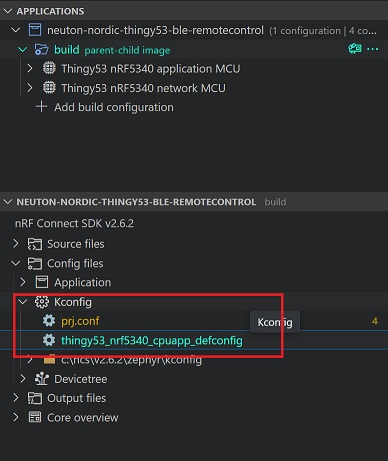
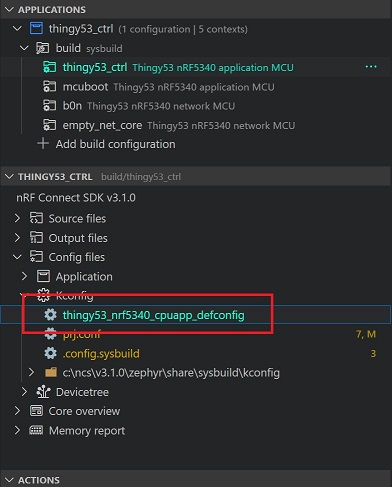
update prj.conf and readme file for sdk 3.1.0

Changed region(s): [[0.0, 0.3341, 1.0, 0.9414], [0.0, 0.0, 0.9897, 0.3037], [0.0, 0.9718, 0.1546, 1.0]]

diff --git a/src/ble/gatt/ble_gatt.c b/src/ble/gatt/ble_gatt.c
@@ -179,7 +179,7 @@ static void bt_ready(int err)
         settings_load();
     }
 
-    err = bt_le_adv_start(BT_LE_ADV_CONN, ad, ARRAY_SIZE(ad), sd, ARRAY_SIZE(sd));
+    err = bt_le_adv_start(BT_LE_ADV_CONN_FAST_1, ad, ARRAY_SIZE(ad), sd, ARRAY_SIZE(sd));
     if (err)
     {
         printk("Advertising failed to start (err %d)\n", err);

diff --git a/README.md b/README.md
@@ -30,9 +30,9 @@ To set this project up, you will need to install the following software:
 
 ## Setup Firmware Project <div id='setup-fw-proj'/>
 
-1. Clone this repository: https://github.com/Neuton-tinyML/neuton-nordic-thingy53-ble-remotecontrol
+1. Clone this repository: https://github.com/Neuton-tinyML/neuton-nordic-thingy53-ble-remotecontrol and checkout to the `feature/custom-ble-gatt` branch. Or run git command `git clone --single-branch --branch feature/custom-ble-gatt https://github.com/Neuton-tinyML/neuton-nordic-thingy53-ble-remotecontrol`
 2. In the VS code, `Open folder` where you did clone the repository.
-3. `Manage toolchain` install toolchain version **v3.0.0**. `Manage SDK` install version **v2.6.2** in nRF Connect tab.
+3. `Manage toolchain` install toolchain version **v3.1.0**. `Manage SDK` install version **v3.1.0** in nRF Connect tab.
 
 ![sw-install-step3-img](resources/sw-install-step-3.jpg)
 
@@ -51,6 +51,7 @@ To set this project up, you will need to install the following software:
 **IMPORTANT** If your `thingy53_nrf5340_cpuapp_defconfig` file does not has **`CONFIG_FPU=y`** you should add this because Neuton library is compiled with `-mfloat-abi=hard` flag
 
 ![sw-install-step5-1-img](resources/sw-install-step-5-1-important.jpg)
+![sw-install-step5-2-img](resources/sw-install-step-5-2-important.jpg)
 
 8. Now turn on your Thingy 53 dev kit and connect to your PC via debugger and USB
 
